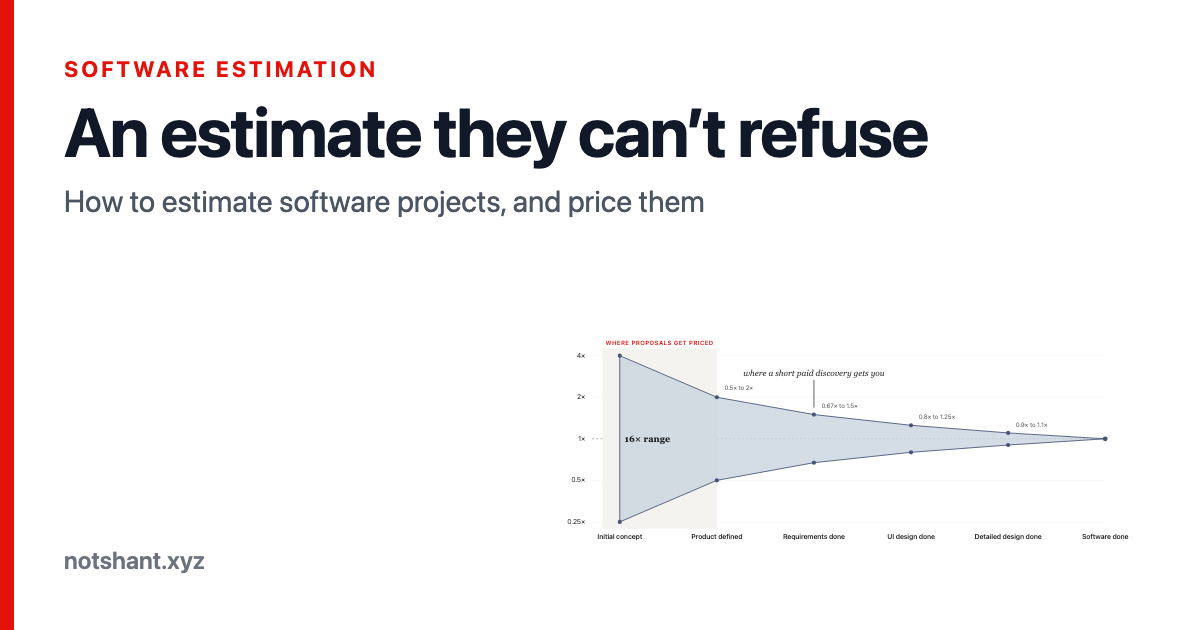
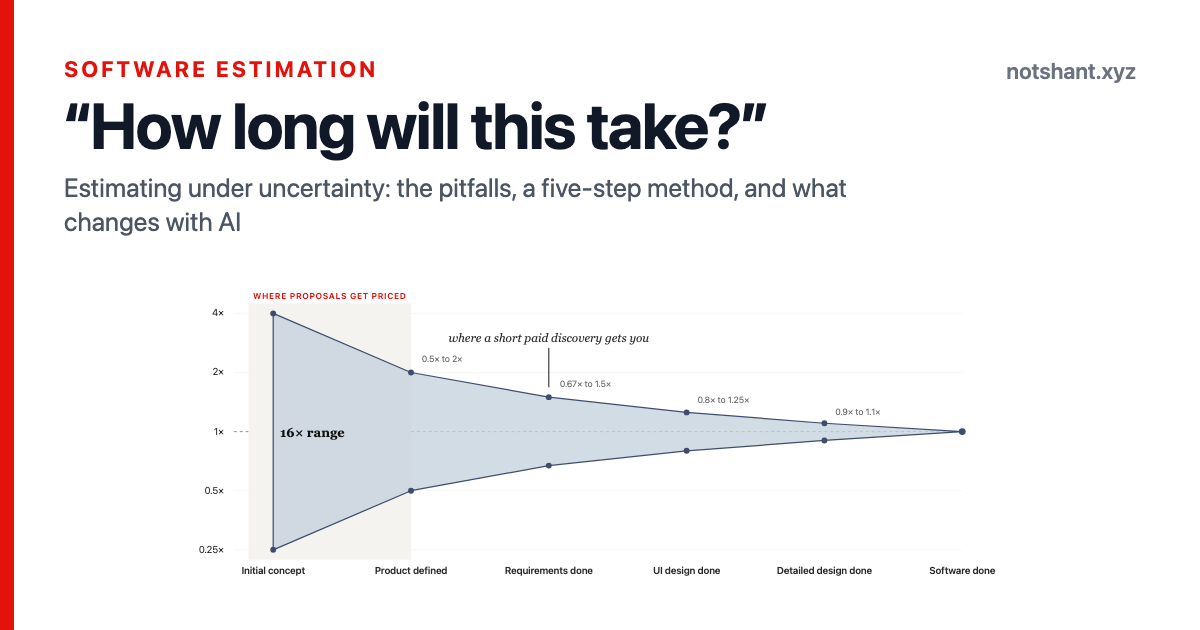
fixed the subtitle social card and some QnA wording

diff --git a/_posts/2026-10-03-software-estimation.md b/_posts/2026-10-03-software-estimation.md
@@ -1,15 +1,15 @@
 ---
 layout: post
-title: "An estimate they can't refuse: how to estimate software projects"
+title: "“How long will this take?” How to estimate software projects"
 permalink: /posts/software-estimation
-description: "How to estimate software projects: why estimates miss, 4 common pitfalls, a 5-step method, AI-assisted delivery, and pricing consulting and freelance work."
+description: "How to estimate software projects under uncertainty: why estimates miss, 4 pitfalls, a 5-step method, what changes with AI, and pricing consulting work."
 author:
   name: Prashant Mittal
   twitter: prashant_mit
   url: https://notshant.xyz/about
 image:
   path: /assets/estimates/social-card.png
-  alt: "An estimate they can't refuse: how to estimate software projects, with the cone of uncertainty"
+  alt: "How long will this take? Estimating under uncertainty: the pitfalls, a five-step method, and what changes with AI, with the cone of uncertainty"
   width: 1200
   height: 630
 article_class: numbered
@@ -17,7 +17,7 @@ article_class: numbered
 
 # "How long will this take?"
 
-How to estimate software projects
+Estimating under uncertainty: the pitfalls, a five-step method, and what changes with AI
 {: .c-subtitle}
 
 Every software project starts with this question, and almost every answer to it turns out wrong. Last week I gave [a talk](#the-slides) at work on estimation. It was mostly for our sales and tech folks, who answer this question together before anyone signs a contract. I called it *An estimate they can't refuse*, a nod to [The Godfather](https://en.wikipedia.org/wiki/The_Godfather)'s "I'm gonna make him an offer he can't refuse."
@@ -321,17 +321,25 @@ And watch out for scope that points at something instead of defining done. "Fini
 
 It can. You don't want to spend days estimating a deal that was never going to fit. Start with a [**SWAG**](https://en.wikipedia.org/wiki/Scientific_wild-ass_guess): a quick range from someone experienced. Anywhere from 50k to 150k. Wide, but it tells you it isn't 10k and it isn't a million. That's enough to know if the client's appetite is in the neighbourhood. Then do the full estimate.
 
-#### "Whose speed do I estimate at?"
+#### "How do I account for different speeds and skill levels on the team?"
 
-The average engineer's. Never your best people, never your weakest, always the middle. It's easy to fall into estimating to your best people and then act surprised. And clients vary too: consider a **1.25x buffer for difficult clients**. You can usually tell in the sales cycle.
+Normalise to the middle of the team. Any team has a spread: some people finish a task in half a day, others take two or three. Estimate the work as a mid-level engineer on that team would do it, not your fastest person and not your newest.
+
+Estimating to your best people is the common trap. They're the ones most likely to get pulled onto something else, and then the estimate no longer matches who's doing the work. A normalised estimate holds up when the staffing changes. If the team really is skewed, say mostly senior or mostly new, adjust for it openly and write down the staffing assumption next to the number.
+
+Clients vary too: consider a **1.25x buffer for difficult clients**. You can usually tell in the sales cycle.
 
 #### "What if their budget is just too low?"
 
 Every client has some constraint. Nobody has infinite time or money. If they're at 50k and you're at 100k, price the intangibles: a case study, a logo, a quote. Treat it as acquisition cost if the account could be worth millions later. But ask one more question: *can we deliver this properly?* If you're taking the deal to get into a deep account, that first project has to blow them away. A tight budget that makes that impossible is worse than no deal.
 
-#### "What if a competitor is cheaper?"
+#### "What if the client thinks we're padding the estimate?"
 
-We lost one of these recently. The client wanted a full rewrite in two and a half months on a small budget. Our honest estimate needed double the team or double the time. What we sent was a three-page breakdown showing every API and flow we'd understood. It didn't win the deal, but it didn't look like we pulled the number out of thin air either. The depth is what stops an honest estimate from reading as sandbagging. It works the other way too. Being slightly more expensive can still win when you show you understand the problem better.
+An estimate higher than the client hoped for can look like sandbagging: a number inflated so the team looks good later. Arguing doesn't fix that. Showing your work does.
+
+Take a client who wants a full rewrite in two and a half months on a small budget, where the real estimate needs twice the team or twice the time. Don't send a number. Send the breakdown behind it: every API and flow you've understood, the assumptions, and what each piece will take. Three pages is enough. Now the client can check the reasoning line by line, and a big number reads as thorough rather than padded.
+
+The same applies to buffers. If you add contingency, label it and say why. Hidden padding is what makes estimates look dishonest, and once a client finds one, they stop trusting the rest.
 
 #### "Should I leave any buffer?"
 

diff --git a/index.md b/index.md
@@ -5,7 +5,7 @@ backLink: false
 
 A collection of thoughts and musings
 
-- [How long will this take? How to estimate software projects (2026)](/posts/software-estimation)
+- [How long will this take? Estimating under uncertainty: the pitfalls, a five-step method, and what changes with AI (2026)](/posts/software-estimation)
 - [autosub — building a video subtitle tool over dinner (2026)](/posts/autosub)
 - [Elegance in Simplicity (2024)](posts/elegance-in-simplicity)
 - [Identitifers (2023)](/posts/identifiers)
